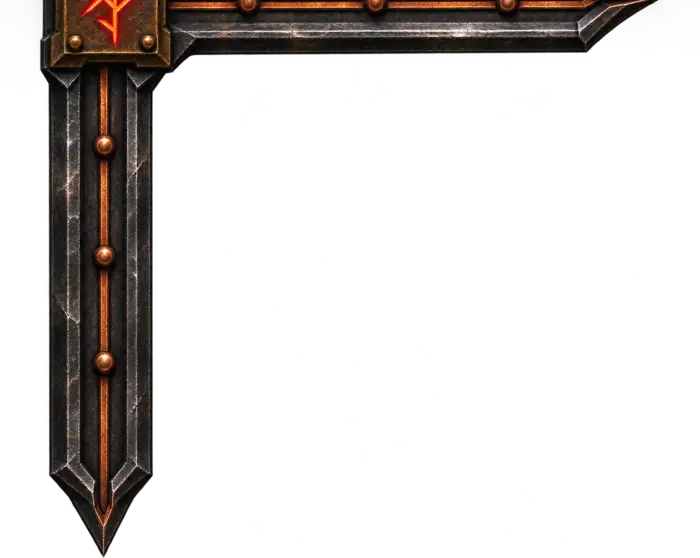
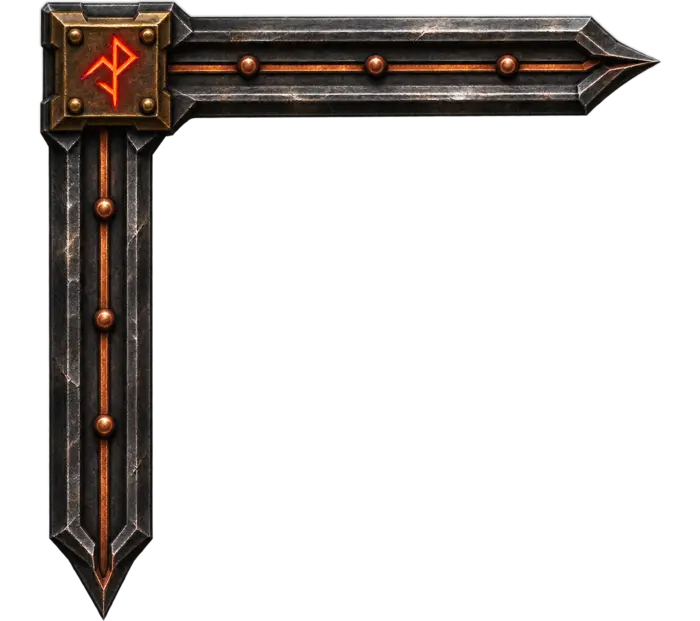
Nains du chaos : l'équerre à la rune du coin bas-gauche n'est plus tronquée
Le master de coin-orne-leger a un voile blanc à demi transparent en haut (reste du
détourage) : la découpe automatique le prenait pour le fond et tranchait le haut de
l'équerre, qui devient le bas sur la fiche (coin retourné). Le voile est effacé hors de la
pièce, la découpe garde la largeur du master : la taille et la place réglées par Idan ne
bougent pas. Test de non-régression ; ton des textes noté dans le doc 14.

Claude-Session: https://claude.ai/code/session_01EeJJTXzBZEvAnWuDndFYuJ

Changed region(s): [[0.06, 0.0, 0.96, 0.9749], [0.18, 0.5789, 0.21, 0.6093]]

diff --git a/tests/culture-kits.test.js b/tests/culture-kits.test.js
@@ -48,6 +48,11 @@ for (const kit of kits.rows) {
   assert.deepEqual(imageSize(path.join(WEB, "assets/pictos/culture-" + kit.cle + ".webp")), {w: 256, h: 256});
   assert.ok(fs.existsSync(path.join(ROOT, "assets-src/Kits", kit.cle, "logo.png")), kit.cle + " : logo du kit");
 }
+// L'équerre à la rune des Nains du chaos : son master a un voile blanc en haut, qui tranchait le haut de l'équerre à la
+// découpe (Idan, 2026-11-22 : « le bas est tronqué… une partie de l'ornement d'angle disparaît »). Entière : 700 × 621
+// (tronquée, elle faisait 700 × 558) ; découpe expliquée dans scripts/build-culture-kit.sh.
+assert.deepEqual(imageSize(path.join(WEB, "assets/fiche/kits/nains-du-chaos/coin-orne-leger.webp")), {w: 700, h: 621});
+assert.match(fs.readFileSync(path.join(ROOT, "scripts/build-culture-kit.sh"), "utf8"), /for piece in coin-orne-riche coin-orne-courbe; do orn "\$SRC\/\$piece\.png"[\s\S]*?-morphology Dilate Disk:3[\s\S]*?"\$OUT\/coin-orne-leger\.webp"/);
 const byKey = Object.fromEntries(kits.rows.map(k => [k.cle, k]));
 const elfes = byKey["elfes-noirs"], sylvains = byKey["elfes-sylvains"], cites = byKey["elfes-des-grandes-cites"];
 

diff --git a/docs/design/14-tavern-recruitment.md b/docs/design/14-tavern-recruitment.md
@@ -130,7 +130,8 @@ l'aubergiste.
 | Tags | vides | à définir avec la refonte des tags (doc 20) | — | — | biais de niveau et de précision |
 
 Le capitaine **vouvoie** les candidats (Idan, 2026-11-22 : « on a un langage décalé presque corporate ») ; le tavernier
-et lui se tutoient. La question du salaire reste « Quelles sont vos prétentions salariales ? » (Idan, 2026-11-22 : « Tu
+et lui se tutoient. **Le ton** (Idan, 2026-11-22) : « le capitaine est corporate... les mercenaires pas trop ! » ; les
+textes sont un détail pour la v2. La question du salaire reste « Quelles sont vos prétentions salariales ? » (Idan, 2026-11-22 : « Tu
 repasses à la bonne version »). La magie : une seule question, il répond en listant ses écoles (Idan, 2026-11-22 : « on
 lui demande s'il connait des sorts, il répond en listant les écoles »). **Le titre sur la fiche : priorité au
 tavernier** (Idan, 2026-11-22) ; sinon celui que le candidat se donne.
